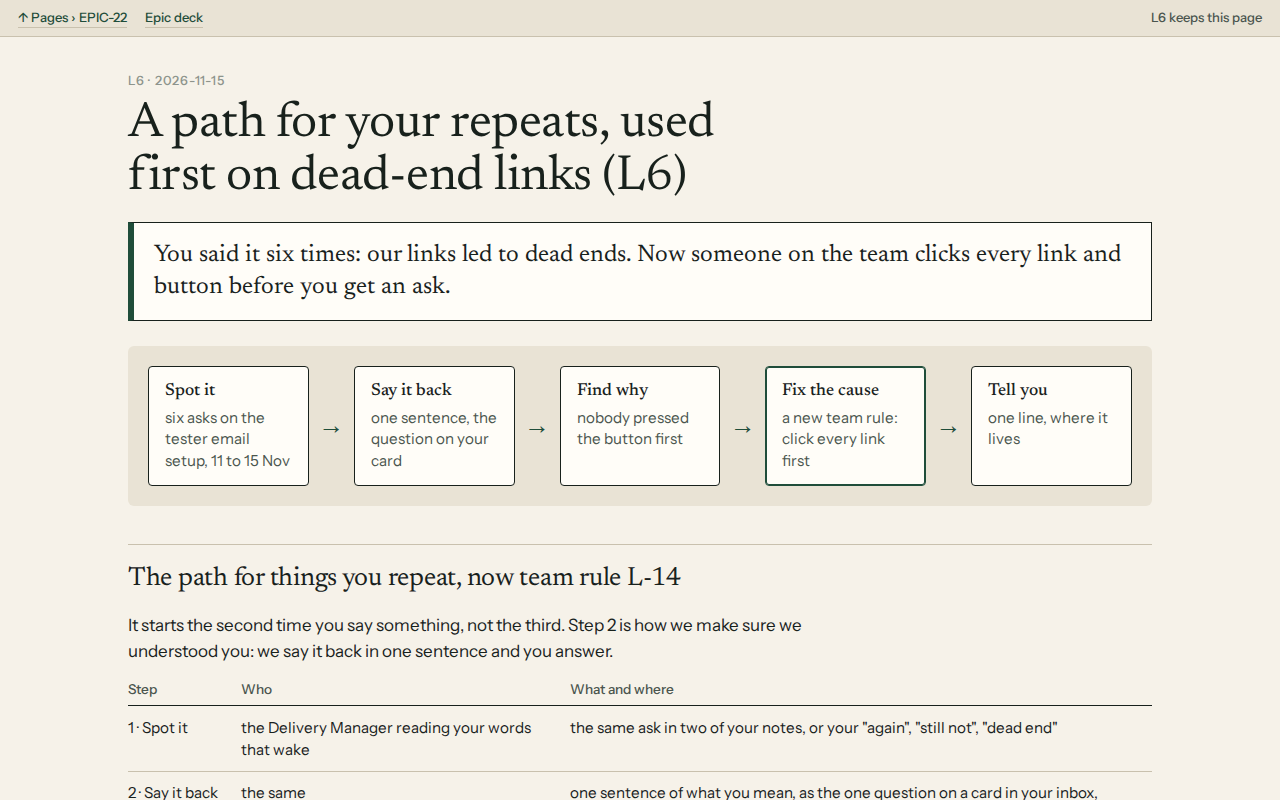
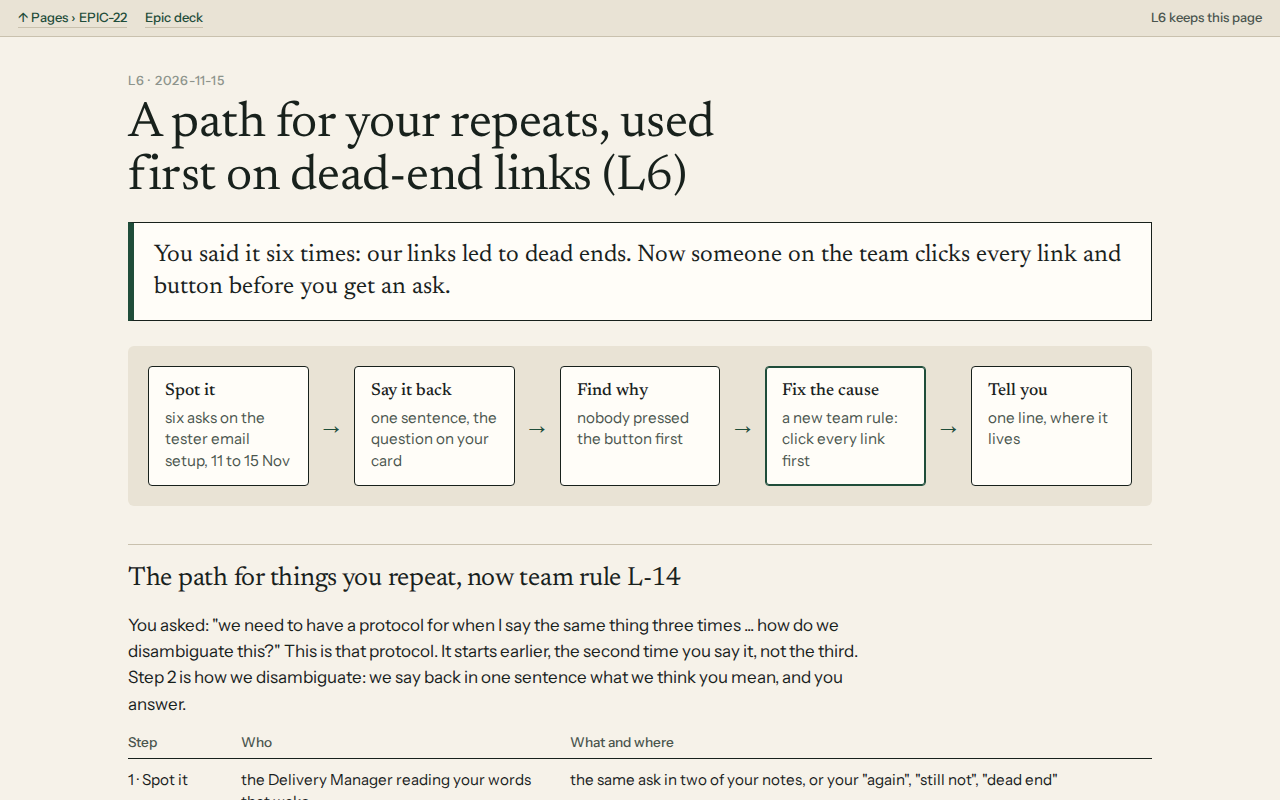
E22-L6: card QC rounds, page names his protocol ask, rule line says it is written
Run: run_818bb326-b27d-433f-83dc-5a85c046bfdd

Changed region(s): [[0.0938, 0.75, 0.6562, 0.9375], [0.4375, 0.9062, 0.8438, 1.0], [0.0938, 0.9062, 0.4062, 1.0]]

diff --git a/docs/zenod-is-the-librarian-of-your-memory-fo.md b/docs/zenod-is-the-librarian-of-your-memory-fo.md
@@ -30,14 +30,14 @@ Goal sentence: Zenod becomes the librarian of your memory, with four clear modes
 
 Owner: Delivery Manager (Zenod launch)
 Status: active (L3 monitoring; L2 closed by Jordi 2026-11-09)
-Last attempted: 2026-11-15T09:50Z L6 worker (run_818bb326): the five-step path for repeats is root L-14; first used on the tester email asks (six in five days, "you led me to a dead end"): cause, nobody pressed the button first; fix, root L-15 (an agent clicks every link and button of an ask first, the ask says what it is for) and a desk note for the EpicTeam ask check; his one question on the card: "Did we get it right? Test every link first, and say what it is for."; http://vps3.taild81fbb.ts.net:9007/, card in review ; earlier: 2026-11-15T08:05Z L5 iteration 3 (run_82876835): his verdict on the six changes (vn_cdcf1208) applied: 4 accepted are root rules L-10 to L-13 plus one desk note to agent_team, change 4 replaced by a proposed path for things he keeps repeating (his one decision), change 5 dropped (old and test notes); http://vps3.taild81fbb.ts.net:9006/, card in review ; earlier: 2026-11-15T00:50Z L5 iteration 2 (run_1e3b65a8): on his relaunch ("what changes were we gonna drive into the Epic Spine?") the reading now answers it: 6 changes in how the team works, each with its note count, at http://vps3.taild81fbb.ts.net:9006/; card in review ; earlier: 2026-11-14T11:35Z L5 worker (run_a661a543): all 421 voice notes read again in three passes for $3.72 (stop $15): 31 threads, 6 monthly digests, 22 open loops, at http://vps3.taild81fbb.ts.net:9006/, linked from the pinned :9004; card in review ; earlier: 2026-11-14T06:35Z L4 iteration 2 (run_748e1bb2): the voice-notes chart is now a pinned page: permanent at http://vps3.taild81fbb.ts.net:9004/ (own unit, survives restarts), rebuilt every day at 05:30 UTC from his vault with an updated-at stamp, pinned with the console's new pin (E6-S108) as Your voice notes, in the console's Pinned group and at team.alpha9.io/my-voice, and first on the EPIC-22 deck ; earlier: 2026-11-14T06:40Z L4 worker (run_a5d009c9): six months of Jordi's voice notes charted at http://vps3.taild81fbb.ts.net:9004/ and a three-pass re-extraction proposed at http://vps3.taild81fbb.ts.net:9005/, sampled on 10 real notes for $0.197; ask E22-A6 posted ; earlier: 2026-11-11T23:25Z Delivery Manager roll-up (run_33c3d455): L1 and L2 done, the librarian app is live with five tabs and four labelled modes ; L3 waits for Jordi to switch modes (0 switches so far), recheck 2026-11-12 ; E22-S1 and E22-S2 done and fed their asks ; E22-S4 done: typed notes answer the same as today's tree, so the tree stays ; E22-S3 starts 2026-11-24 after two quiet weeks of filing, now also carrying M11's vault-recovery finding (18c4deaa) ; the only engine change during the freeze is EPIC-14 S42, a breakage fix so new page names are no longer cut at 60 letters
+Last attempted: 2026-11-15T09:25Z L6 worker (run_818bb326): the five-step path for repeats is root L-14; first used on the tester email asks (six in five days, "you led me to a dead end"): cause, nobody pressed the button first; fix, root L-15 (an agent clicks every link and button of an ask first, the ask says what it is for) and a desk note for the EpicTeam ask check; his one question on the card: "Did we get it right? Test every link first, and say what it is for."; http://vps3.taild81fbb.ts.net:9007/, card in review ; earlier: 2026-11-15T08:05Z L5 iteration 3 (run_82876835): his verdict on the six changes (vn_cdcf1208) applied: 4 accepted are root rules L-10 to L-13 plus one desk note to agent_team, change 4 replaced by a proposed path for things he keeps repeating (his one decision), change 5 dropped (old and test notes); http://vps3.taild81fbb.ts.net:9006/, card in review ; earlier: 2026-11-15T00:50Z L5 iteration 2 (run_1e3b65a8): on his relaunch ("what changes were we gonna drive into the Epic Spine?") the reading now answers it: 6 changes in how the team works, each with its note count, at http://vps3.taild81fbb.ts.net:9006/; card in review ; earlier: 2026-11-14T11:35Z L5 worker (run_a661a543): all 421 voice notes read again in three passes for $3.72 (stop $15): 31 threads, 6 monthly digests, 22 open loops, at http://vps3.taild81fbb.ts.net:9006/, linked from the pinned :9004; card in review ; earlier: 2026-11-14T06:35Z L4 iteration 2 (run_748e1bb2): the voice-notes chart is now a pinned page: permanent at http://vps3.taild81fbb.ts.net:9004/ (own unit, survives restarts), rebuilt every day at 05:30 UTC from his vault with an updated-at stamp, pinned with the console's new pin (E6-S108) as Your voice notes, in the console's Pinned group and at team.alpha9.io/my-voice, and first on the EPIC-22 deck ; earlier: 2026-11-14T06:40Z L4 worker (run_a5d009c9): six months of Jordi's voice notes charted at http://vps3.taild81fbb.ts.net:9004/ and a three-pass re-extraction proposed at http://vps3.taild81fbb.ts.net:9005/, sampled on 10 real notes for $0.197; ask E22-A6 posted ; earlier: 2026-11-11T23:25Z Delivery Manager roll-up (run_33c3d455): L1 and L2 done, the librarian app is live with five tabs and four labelled modes ; L3 waits for Jordi to switch modes (0 switches so far), recheck 2026-11-12 ; E22-S1 and E22-S2 done and fed their asks ; E22-S4 done: typed notes answer the same as today's tree, so the tree stays ; E22-S3 starts 2026-11-24 after two quiet weeks of filing, now also carrying M11's vault-recovery finding (18c4deaa) ; the only engine change during the freeze is EPIC-14 S42, a breakage fix so new page names are no longer cut at 60 letters
 Result: all 421 voice notes (27.5 hours since June) read again in three passes for $3.72 of the $15 stop: 1,561 points with his quotes, 31 threads (11 across months), 6 monthly digests, 10 insights and 22 open loops, beside his memory, not in it ; the pinned chart counts the same 421 notes, 622 pages, 561 still provisional ; the librarian app is live; the engine is frozen for stability until 24 Nov, with only fixes for breakage or wrong answers
 Evidence: 📌 pinned: [your voice notes chart, refreshed daily](http://vps3.taild81fbb.ts.net:9004/) · [five steps on your repeat](http://vps3.taild81fbb.ts.net:9007/) · [E22-L6](evidence/e22-l6-2026-11-15.md) · [three passes over all notes](http://vps3.taild81fbb.ts.net:9006/) · [E22-L5 three passes](evidence/e22-l5-2026-11-14.md) · [E22-L4 voice notes](evidence/e22-l4-2026-11-14.md) · http://vps3.taild81fbb.ts.net:9005/ · [E22-L2 live](evidence/e22-l2-live-2026-11-09.md) · http://vps3.taild81fbb.ts.net:8921/e22-l2-live/ · [mockup round 2](evidence/e22-l2-2026-11-09.md)
 Waiting on: his answer on the L6 card (did we get it right: test every link first, and say what it is for?) ; his mode switches (L3) ; the date 2026-11-24 (E22-S3)
 Approved work: E22-A2 (build it as in mockup round 2)
 Next action: Jordi answers the L6 card (Yes, or Not quite with a voice note); the Delivery Manager runs the five steps (root L-14) on his next repeat ; folding threads into his memory stays parked until after 24 Nov ; E22-S3 on 2026-11-24
 Source revision: production d9ebdd6 (cloud.zenod.dev/api/health 2026-11-11); staging e0b6d80
-Verified at: 2026-11-15T09:50Z (L6 page 200 on :9007 via the page hub, checked at 390 and 1280 px) ; 2026-11-15T08:05Z (L5 iteration 3 page 200 on :9006 via the page hub, checked at 390 and 1280 px) ; 2026-11-15T00:50Z (L5 iteration 2 page 200 on :9006, checked at 390 and 1280 px) ; 2026-11-14T11:35Z (L5 page 200 on :9006, registered; pinned :9004 rebuilt from vault 8ca26d3 with 421 notes and the link to :9006)
+Verified at: 2026-11-15T09:25Z (L6 page 200 on :9007 via the page hub, checked at 390 and 1280 px) ; 2026-11-15T08:05Z (L5 iteration 3 page 200 on :9006 via the page hub, checked at 390 and 1280 px) ; 2026-11-15T00:50Z (L5 iteration 2 page 200 on :9006, checked at 390 and 1280 px) ; 2026-11-14T11:35Z (L5 page 200 on :9006, registered; pinned :9004 rebuilt from vault 8ca26d3 with 421 notes and the link to :9006)
 Monitoring: engine freeze since 2026-11-10 until 2026-11-24 · next check 2026-11-24 (E22-S3)
 
 ## Waiting on

diff --git a/docs/evidence/e22-l6-2026-11-15.md b/docs/evidence/e22-l6-2026-11-15.md
@@ -64,7 +64,7 @@ Already in effect on this case: E26-S28 iteration 2 walked the Connect button to
 
 Round 3's (b) was fixed after the round; the limit of 3 rounds was reached, so no round 4 ran.
 
-Card QC round 1 (agent_team `card_qc.py`, 4f0a668b) held the card: (1) "not what he asked": the page showed the case but not the protocol itself; (2) the title could read as if the links themselves were fixed. Fixed: the page now opens its body with "The path for things you repeat, now team rule L-14" (each step, who runs it, where it goes; step 2 is the disambiguation he asked about), the title reads "A path for your repeats, used first on dead-end links", and the card's title and delivered lines say a path and a rule were made.
+Card QC round 1 (agent_team `card_qc.py`, 4f0a668b) held the card: (1) "not what he asked": the page showed the case but not the protocol itself; (2) the title could read as if the links themselves were fixed. Fixed: the page now opens its body with "The path for things you repeat, now team rule L-14" (each step, who runs it, where it goes; step 2 is the disambiguation he asked about), the title reads "A path for your repeats, used first on dead-end links", and the card's title and delivered lines say a path and a rule were made. Rounds 2 to 4 (09:21 to 09:30Z): the page quotes his "protocol for when I say the same thing three times" and says this is that protocol, starting at the second time (met); the third delivered line says the rule is written, so it does not read as if the links now work.
 
 Checks: agent_team `text_wall_check.py` (leads with a box), `clean_look_check.py` (clean); captured at 390 and 1280 px with `card_qc_shots.mjs`; at 390 px the five-step line scrolls sideways inside its band (the shell's line shape). Page dir `/var/lib/vps3-scratch/t3agent/pages/e22-l6-repeat-path`, served by the vps3 page hub on :9007, registered in agent_team `docs/pages/registry.json` (fc17b47e1).
 

diff --git a/docs/cards/L6.md b/docs/cards/L6.md
@@ -4,9 +4,9 @@ spine: zenod-is-the-librarian-of-your-memory-fo.md
 title: "A path for your repeats was made and used on dead-end links."
 goal: "Fix the cause the second time you repeat something."
 delivered:
-  - "✓ From your second repeat we say it back, then fix its cause."
+  - "✓ Your protocol for repeats: we say it back, then fix the cause."
   - "✓ First use, dead-end links: nobody had clicked the button first."
-  - "✓ New rule: we click every link and button before you see it."
+  - "✓ A team rule is written: we test an ask's links before you see it."
 evidence: [Open the five steps on your repeat](http://vps3.taild81fbb.ts.net:9007/)
 screenshot: ../evidence/e22-l6-2026-11-15.png
 source: "Your yes on 15 Nov to the path for repeats: \"Yes: use it from your next repeat\" [card](http://vps3.taild81fbb.ts.net:9006/)"
